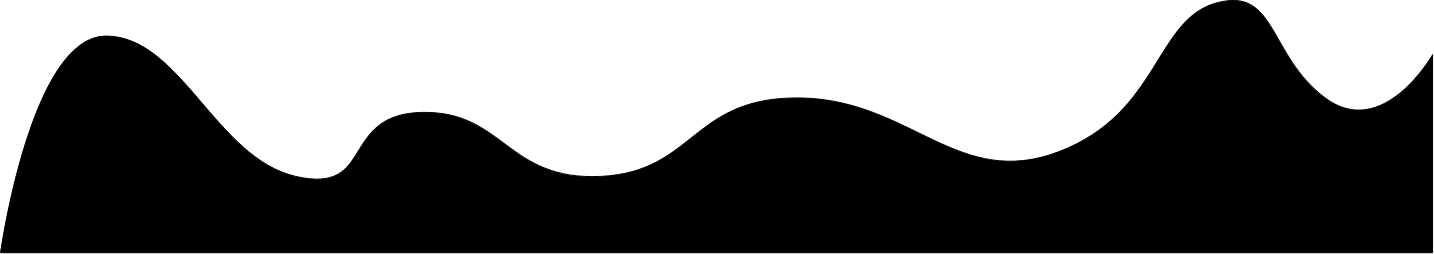
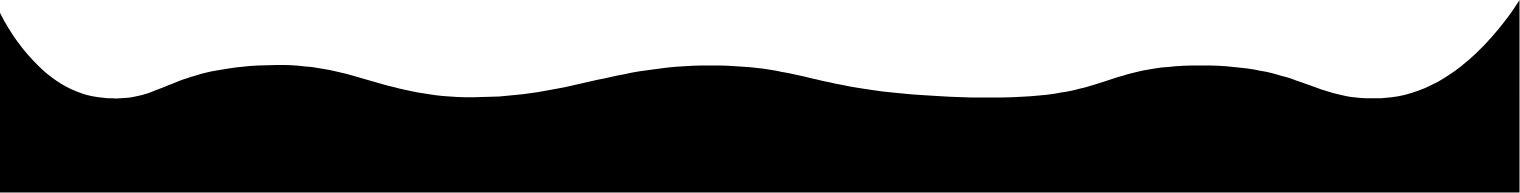
changes

Changed region(s): [[0.0, 0.0, 1.0, 0.9016]]

diff --git a/CSS/footer.css b/CSS/footer.css
@@ -8,8 +8,10 @@
     overflow-y: hidden; */
     background-image: url(../IMAGES/HOME/footer.png);
     background-position: top center;
+    background-size: cover;
     background-repeat: no-repeat;
-    height: 200px;
+    height: 170px;
+    
     
 
 }
@@ -67,6 +69,8 @@
        align-items: center;
        justify-content: center;
        height: 100%;
+       font-size: 12px;
+       padding: 0 20px;
        /* background-color: rgb(146, 143, 143); */
    }
 
@@ -159,6 +163,7 @@
         width: 70%;
         font-size: 12px;
         line-height: 1.5em;
+        padding: 0 0;
     }
 
     .two ul li a{

diff --git a/CSS/home.css b/CSS/home.css
@@ -51,7 +51,6 @@
     -webkit-background-size: cover!important;
     -moz-background-size: cover!important;
     -o-background-size: cover!important;
-    background-size: cover!important;
 }
 
 .banner-1{
